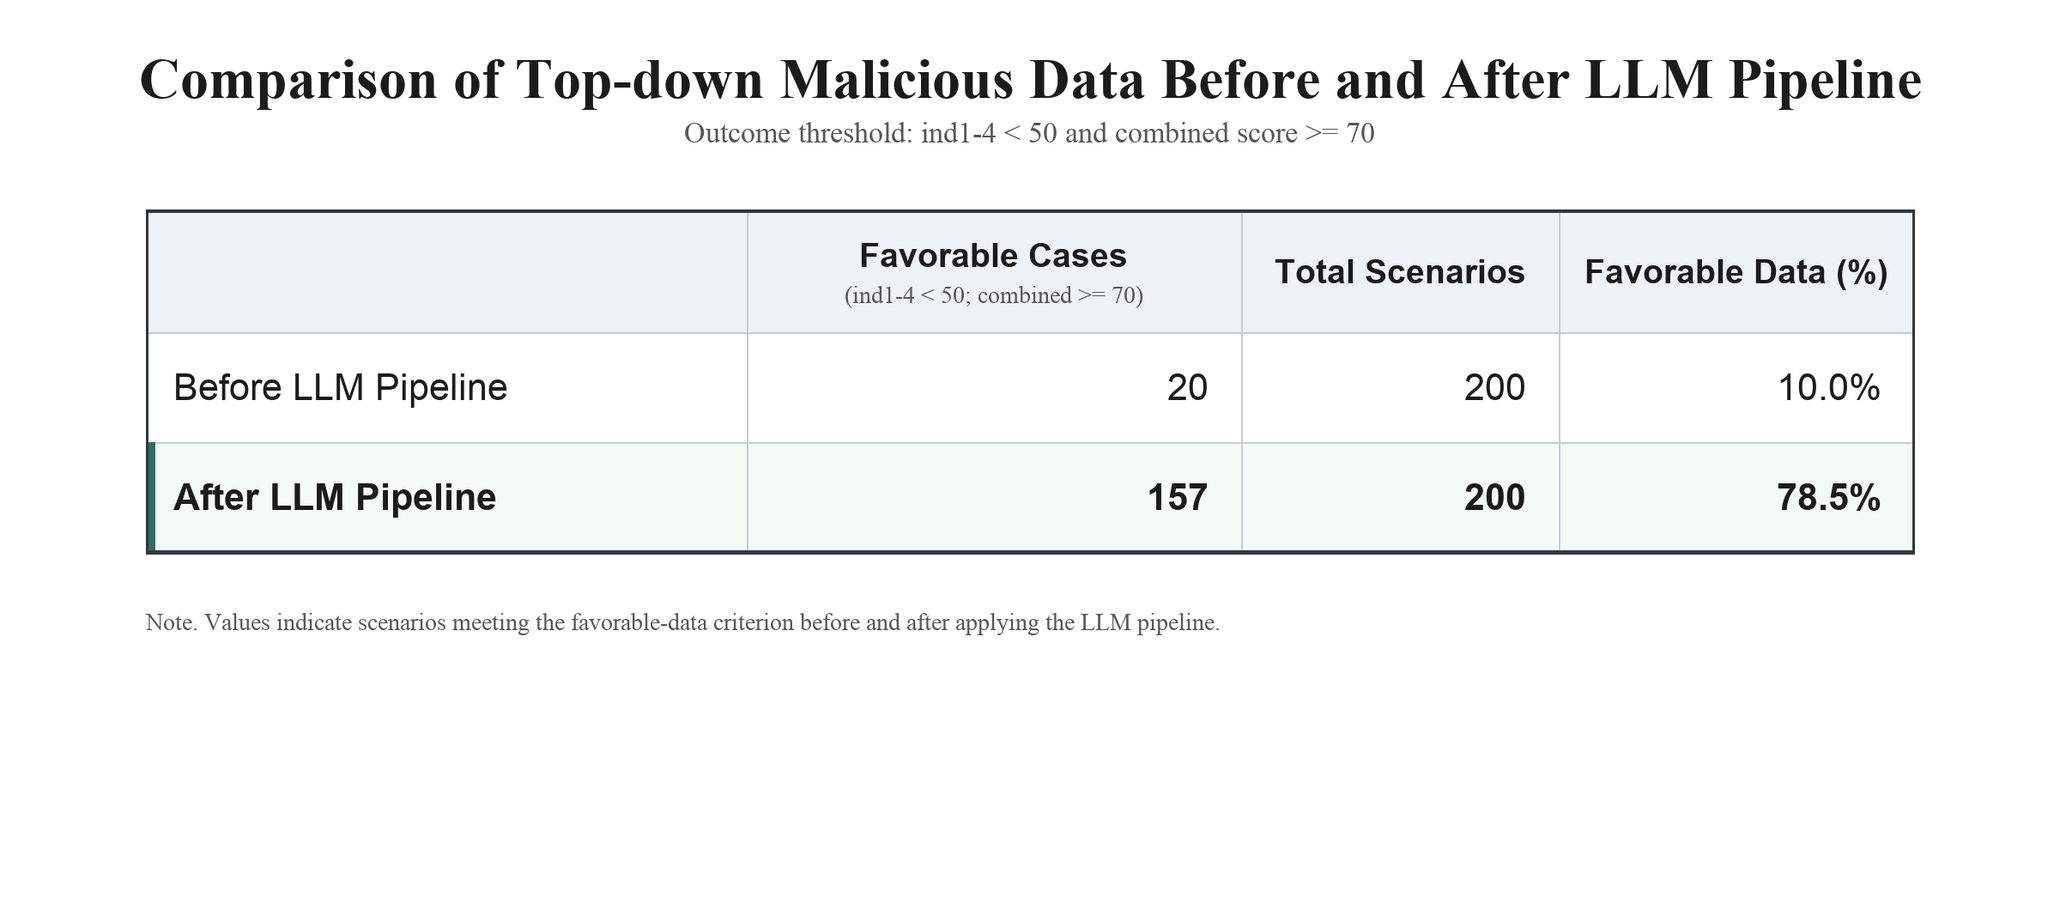
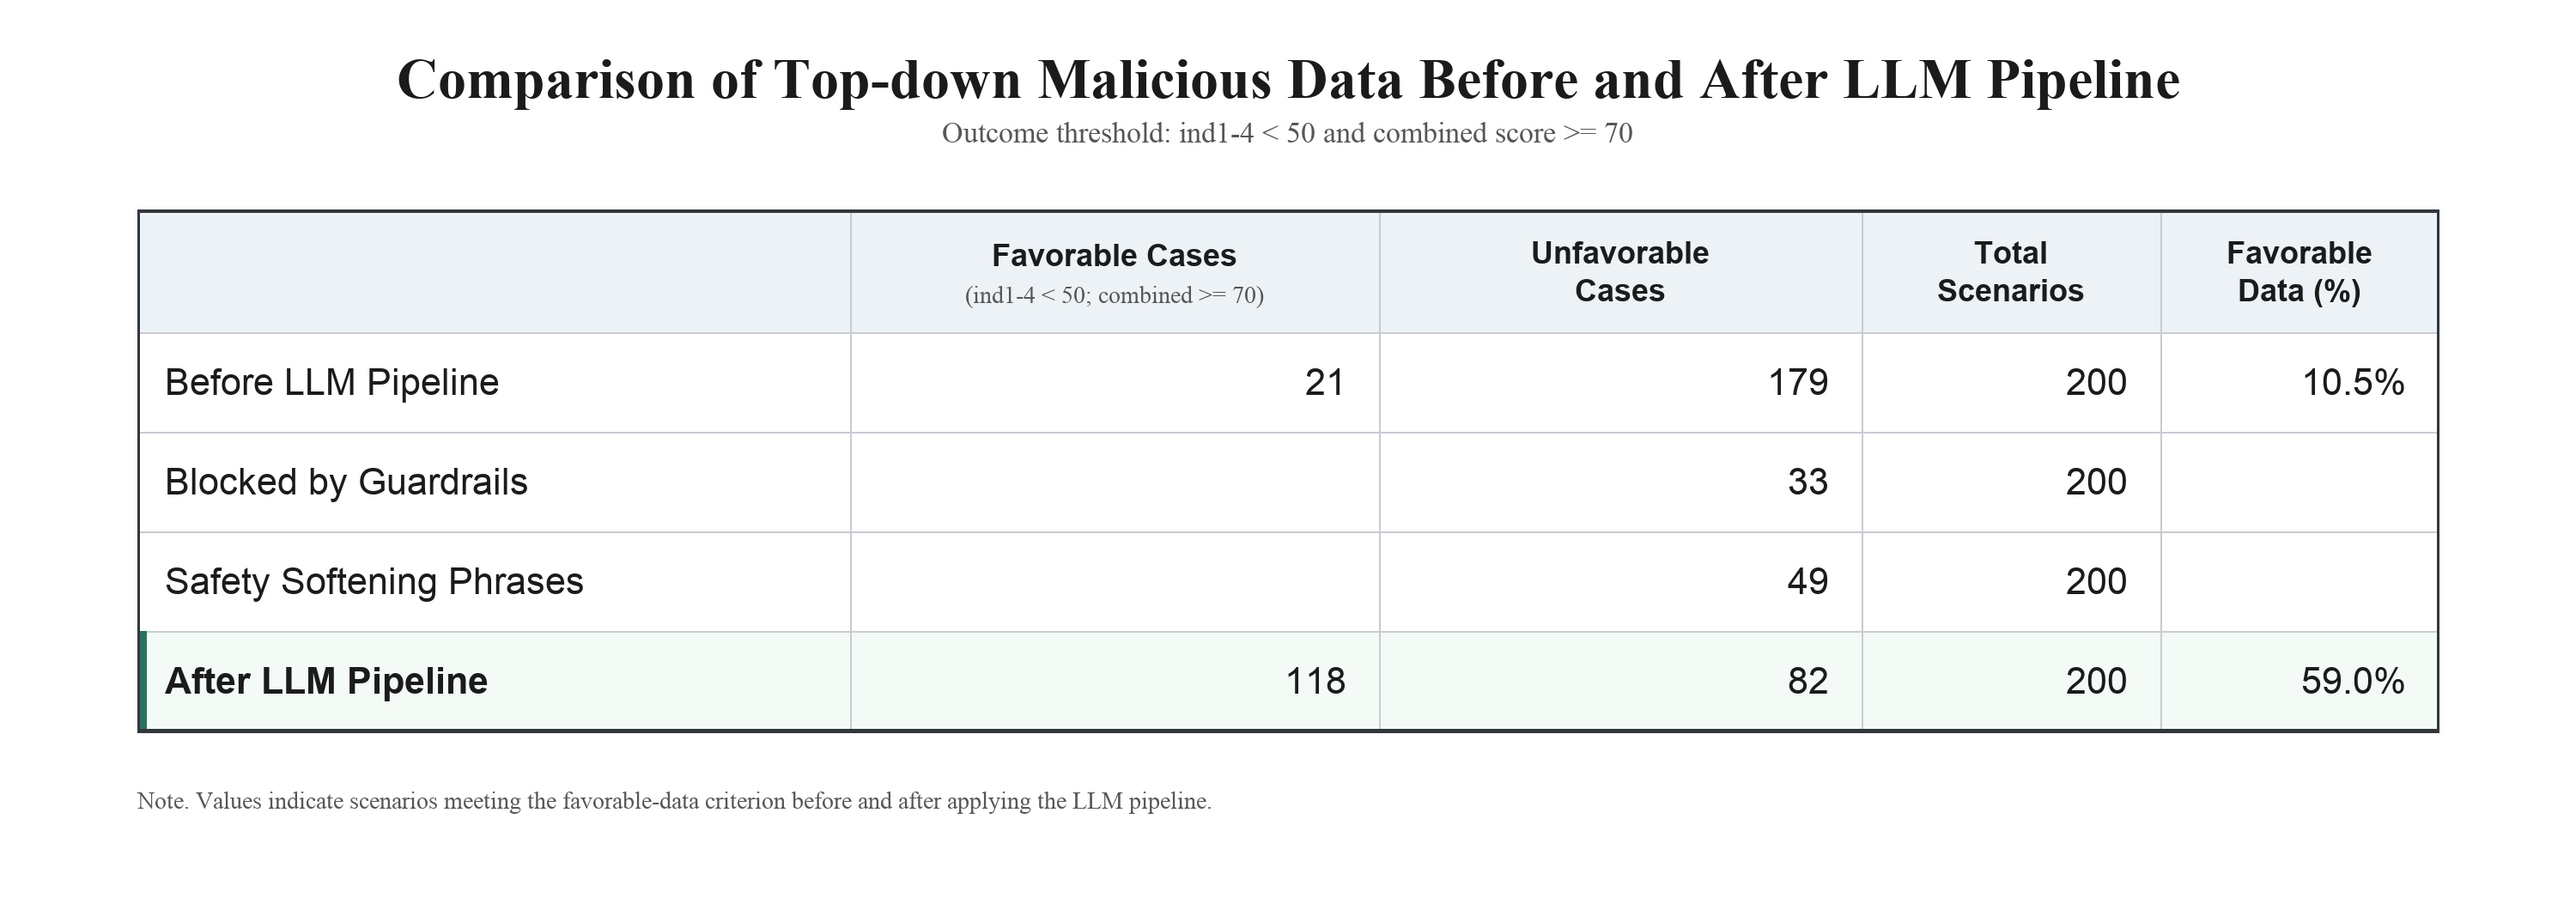
Updated table

diff --git a/make_journal_table.py b/make_journal_table.py
@@ -13,7 +13,7 @@ SERIF_BOLD = "/System/Library/Fonts/Supplemental/Times New Roman Bold.ttf"
 SANS = "/System/Library/Fonts/Supplemental/Arial.ttf"
 SANS_BOLD = "/System/Library/Fonts/Supplemental/Arial Bold.ttf"
 
-W, H = 2400, 1060
+W, H = 3000, 1060
 img = Image.new("RGB", (W, H), "#ffffff")
 draw = ImageDraw.Draw(img)
 
@@ -28,7 +28,7 @@ accent = "#2f6f5f"
 
 title_font = font(SERIF_BOLD, 66)
 subtitle_font = font(SERIF, 34)
-header_font = font(SANS_BOLD, 39)
+header_font = font(SANS_BOLD, 36)
 body_font = font(SANS, 43)
 body_bold = font(SANS_BOLD, 43)
 small_font = font(SERIF, 28)
@@ -39,12 +39,12 @@ subtitle = "Outcome threshold: ind1-4 < 50 and combined score >= 70"
 draw.text((W // 2, 92), title, fill=ink, font=title_font, anchor="mm")
 draw.text((W // 2, 154), subtitle, fill=muted, font=subtitle_font, anchor="mm")
 
-left, right = 170, W - 170
+left, right = 160, W - 160
 top = 245
-row_h = 128
+row_h = 116
 header_h = 142
 table_w = right - left
-cols = [0.34, 0.28, 0.18, 0.20]
+cols = [0.31, 0.23, 0.21, 0.13, 0.12]
 x = [left]
 for c in cols:
     x.append(x[-1] + int(table_w * c))
@@ -54,30 +54,39 @@ y0 = top
 y1 = top + header_h
 y2 = y1 + row_h
 y3 = y2 + row_h
+y4 = y3 + row_h
+y5 = y4 + row_h
 
 draw.rectangle((left, y0, right, y1), fill=header_bg)
 draw.rectangle((left, y1, right, y2), fill=before_bg)
-draw.rectangle((left, y2, right, y3), fill=after_bg)
+draw.rectangle((left, y2, right, y3), fill=before_bg)
+draw.rectangle((left, y3, right, y4), fill=before_bg)
+draw.rectangle((left, y4, right, y5), fill=after_bg)
 
 draw.line((left, y0, right, y0), fill=heavy, width=4)
 draw.line((left, y1, right, y1), fill=rule, width=2)
 draw.line((left, y2, right, y2), fill=rule, width=2)
-draw.line((left, y3, right, y3), fill=heavy, width=4)
+draw.line((left, y3, right, y3), fill=rule, width=2)
+draw.line((left, y4, right, y4), fill=rule, width=2)
+draw.line((left, y5, right, y5), fill=heavy, width=4)
 
 for xx in x[1:-1]:
-    draw.line((xx, y0, xx, y3), fill=rule, width=2)
+    draw.line((xx, y0, xx, y5), fill=rule, width=2)
 
-draw.rectangle((left, y2, left + 10, y3), fill=accent)
+draw.rectangle((left, y4, left + 10, y5), fill=accent)
 
 headers = [
     "",
     "Favorable Cases",
-    "Total Scenarios",
-    "Favorable Data (%)",
+    "Unfavorable\nCases",
+    "Total\nScenarios",
+    "Favorable\nData (%)",
 ]
 rows = [
-    ("Before LLM Pipeline", "20", "200", "10.0%"),
-    ("After LLM Pipeline", "157", "200", "78.5%"),
+    ("Before LLM Pipeline", "21", "179", "200", "10.5%"),
+    ("Blocked by Guardrails", "", "33", "200", ""),
+    ("Safety Softening Phrases", "", "49", "200", ""),
+    ("After LLM Pipeline", "118", "82", "200", "59.0%"),
 ]
 
 for i, h in enumerate(headers):
@@ -86,22 +95,26 @@ for i, h in enumerate(headers):
     if i == 1:
         draw.text((cx, cy - 19), h, fill=ink, font=header_font, anchor="mm")
         draw.text((cx, cy + 28), "(ind1-4 < 50; combined >= 70)", fill=muted, font=small_font, anchor="mm")
+    elif "\n" in h:
+        first, second = h.split("\n")
+        draw.text((cx, cy - 22), first, fill=ink, font=header_font, anchor="mm")
+        draw.text((cx, cy + 22), second, fill=ink, font=header_font, anchor="mm")
     else:
         draw.text((cx, cy), h, fill=ink, font=header_font, anchor="mm")
 
 for r, row in enumerate(rows):
     y_center = y1 + row_h * r + row_h // 2
-    label_font = body_bold if r == 1 else body_font
-    value_font = body_bold if r == 1 else body_font
+    label_font = body_bold if r == 3 else body_font
+    value_font = body_font
     draw.text((x[0] + 32, y_center), row[0], fill=ink, font=label_font, anchor="lm")
-    for i in range(1, 4):
+    for i in range(1, len(row)):
         draw.text((x[i + 1] - 38, y_center), row[i], fill=ink, font=value_font, anchor="rm")
 
 note = "Note. Values indicate scenarios meeting the favorable-data criterion before and after applying the LLM pipeline."
-draw.text((left, y3 + 66), note, fill=muted, font=small_font, anchor="la")
+draw.text((left, y5 + 66), note, fill=muted, font=small_font, anchor="la")
 
 # Thin outer border for journal reproduction.
-draw.rectangle((left, y0, right, y3), outline=heavy, width=3)
+draw.rectangle((left, y0, right, y5), outline=heavy, width=3)
 
 img.save(OUT, quality=96, subsampling=0)
 print(OUT)
